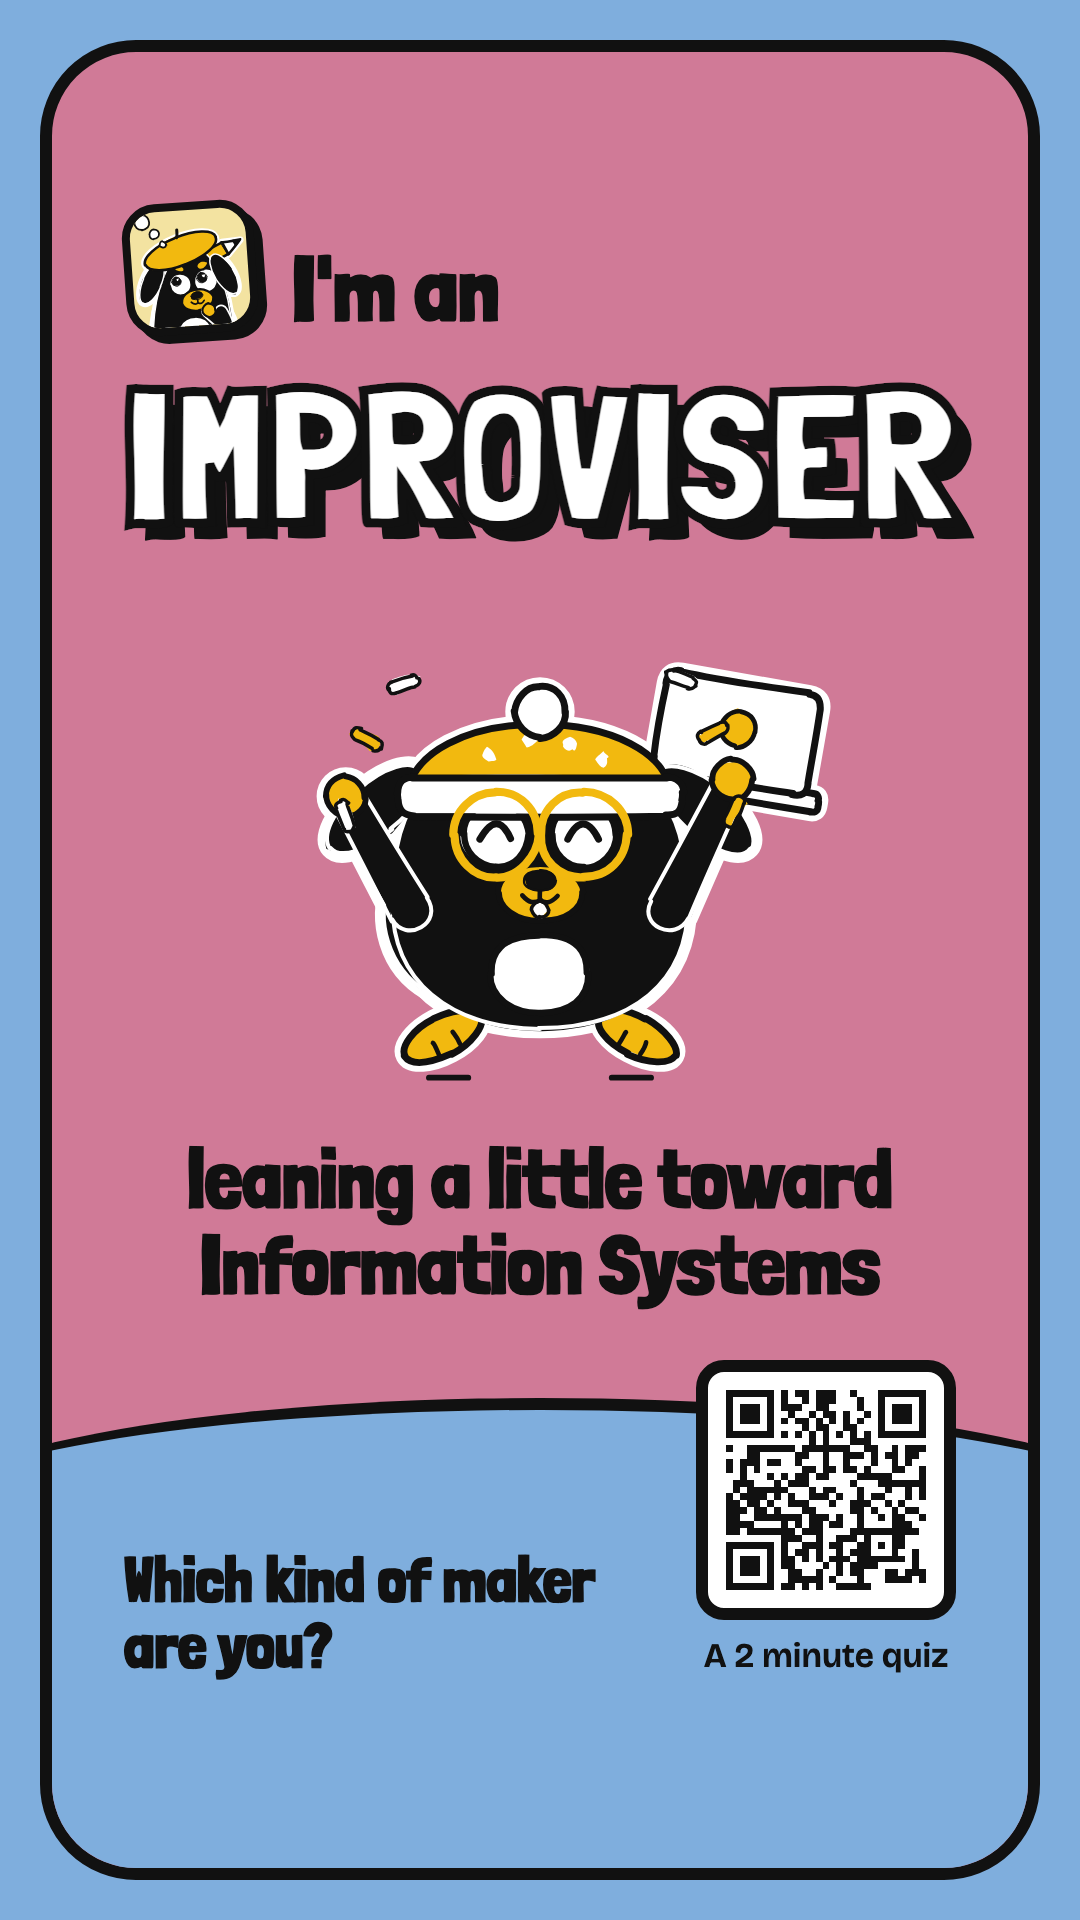
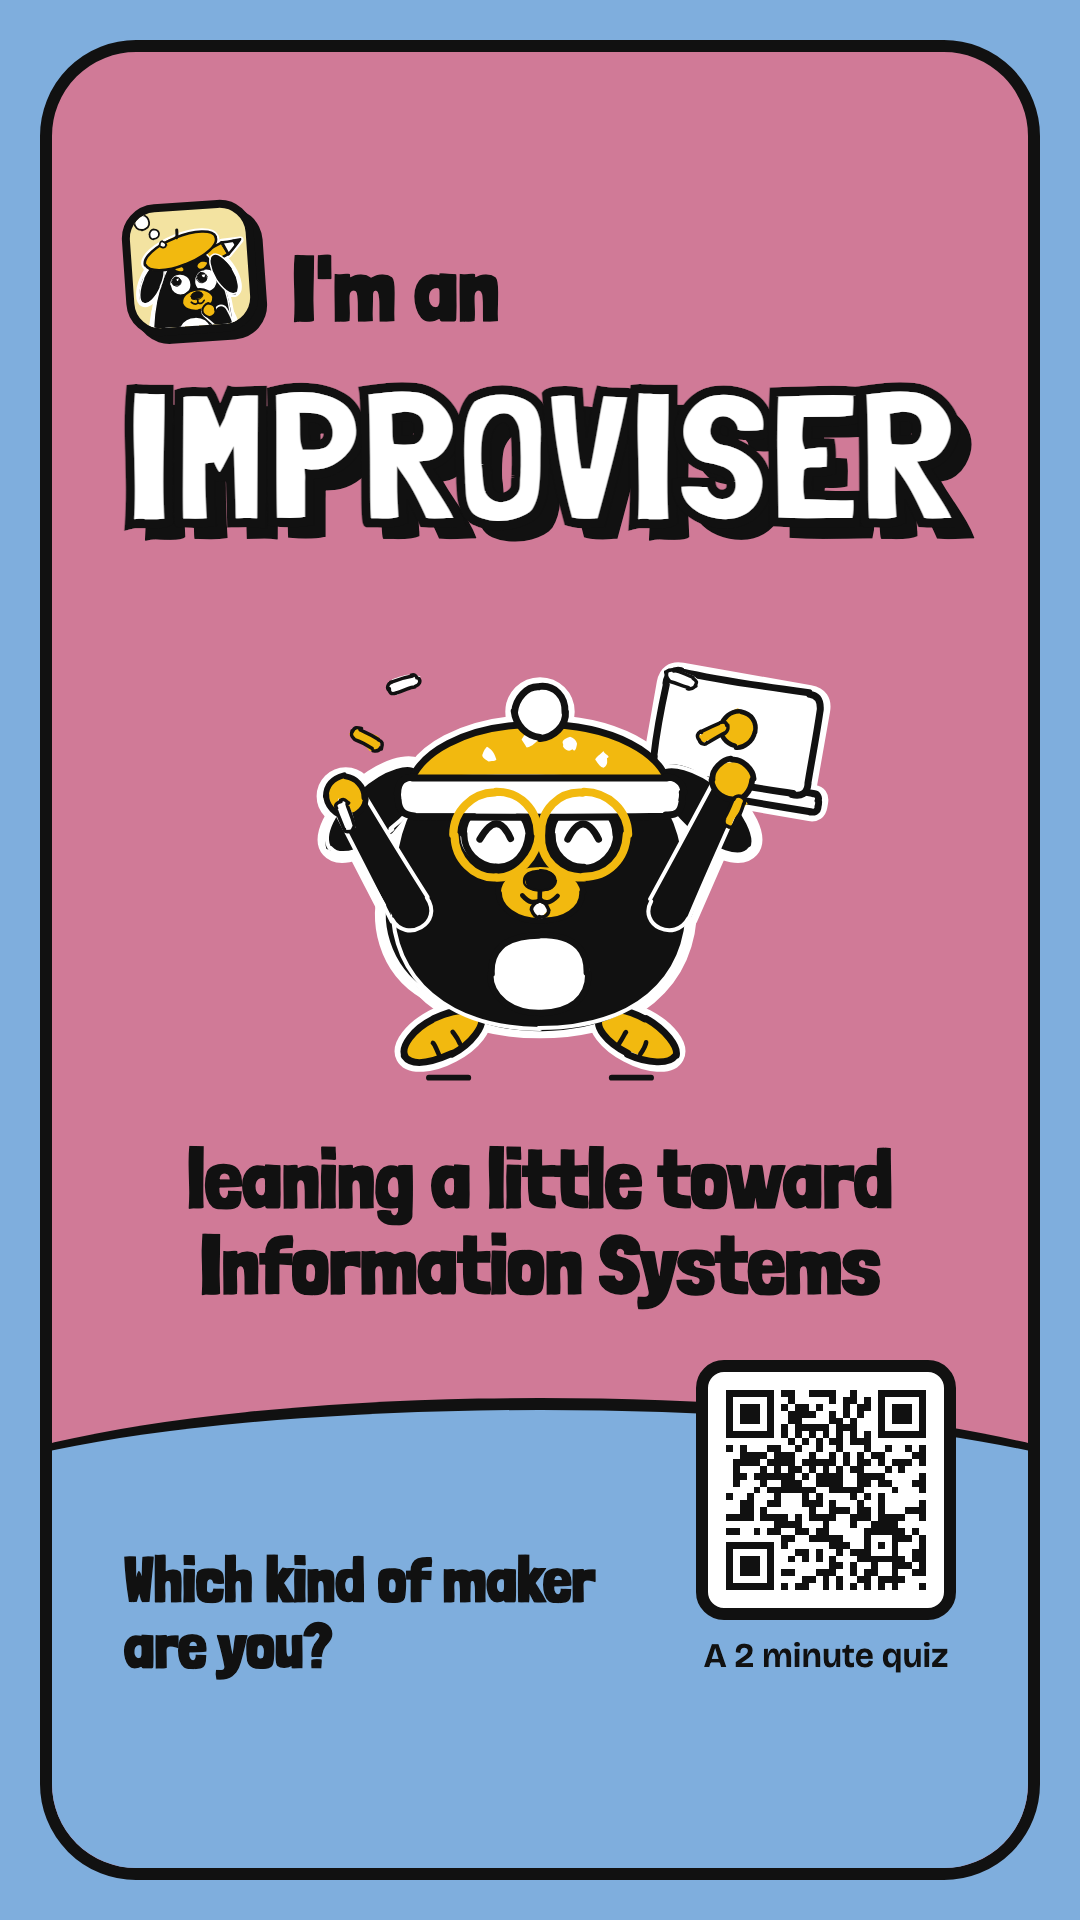
Point the QR code and link preview at the live address

Changed region(s): [[0.6722, 0.7188, 0.8556, 0.8438]]

diff --git a/index.html b/index.html
@@ -8,11 +8,12 @@
 <meta name="description" content="A 2 minute reflection for CMU first-years choosing between Design and Information Systems.">
 <meta name="theme-color" content="#7FAEDD">
 <meta name="color-scheme" content="light">
-<!-- Link preview. When the quiz has a real address, make og:image a full URL (https://.../share/og.png) and add og:url. -->
+<!-- Link preview. The address is also in config.json: change both together. -->
 <meta property="og:type" content="website">
 <meta property="og:title" content="Maker Type: which kind of maker are you?">
 <meta property="og:description" content="A 2 minute reflection for CMU first-years choosing between Design and Information Systems.">
-<meta property="og:image" content="share/og.png">
+<meta property="og:url" content="https://wl1u4.github.io/maker-type/">
+<meta property="og:image" content="https://wl1u4.github.io/maker-type/share/og.png">
 <meta name="twitter:card" content="summary_large_image">
 <script src="palette.js"></script>
 <link rel="icon" href="assets/favicon.svg" type="image/svg+xml">
